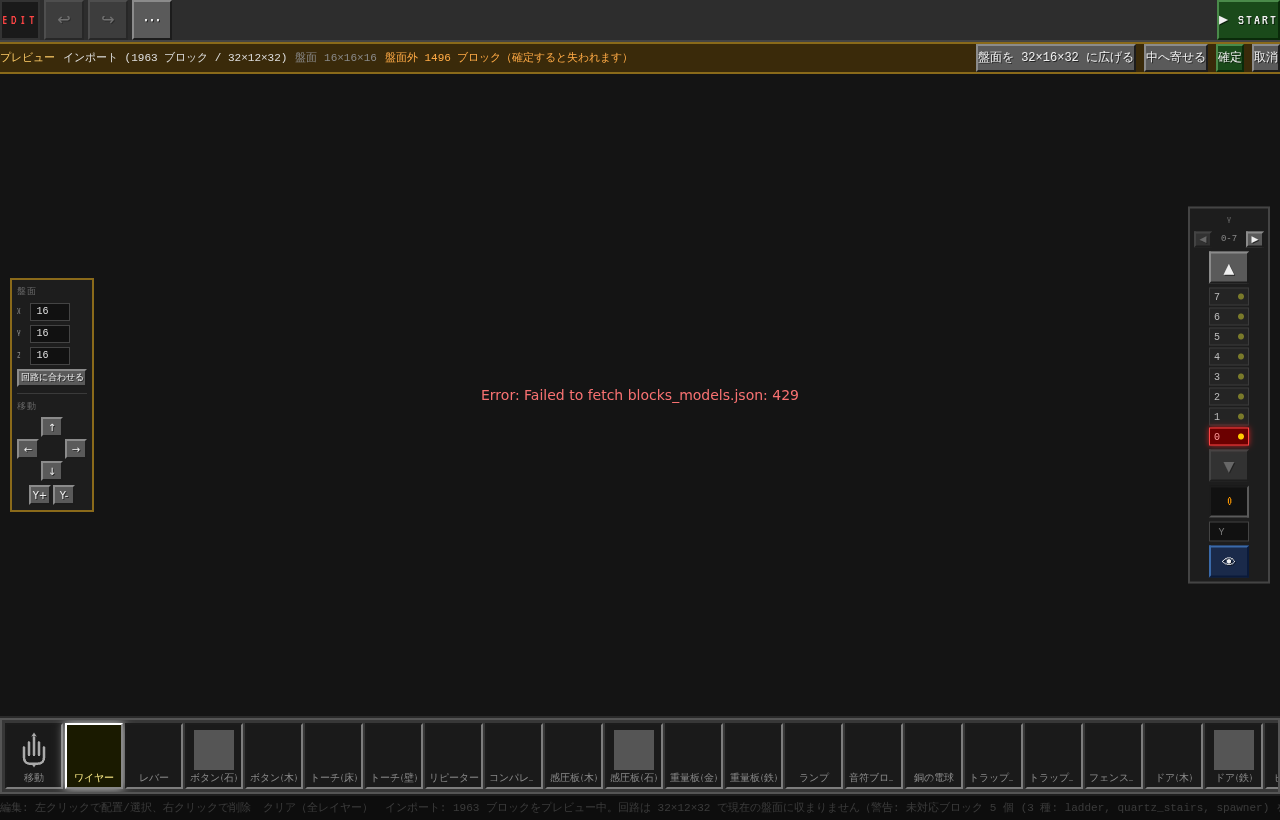
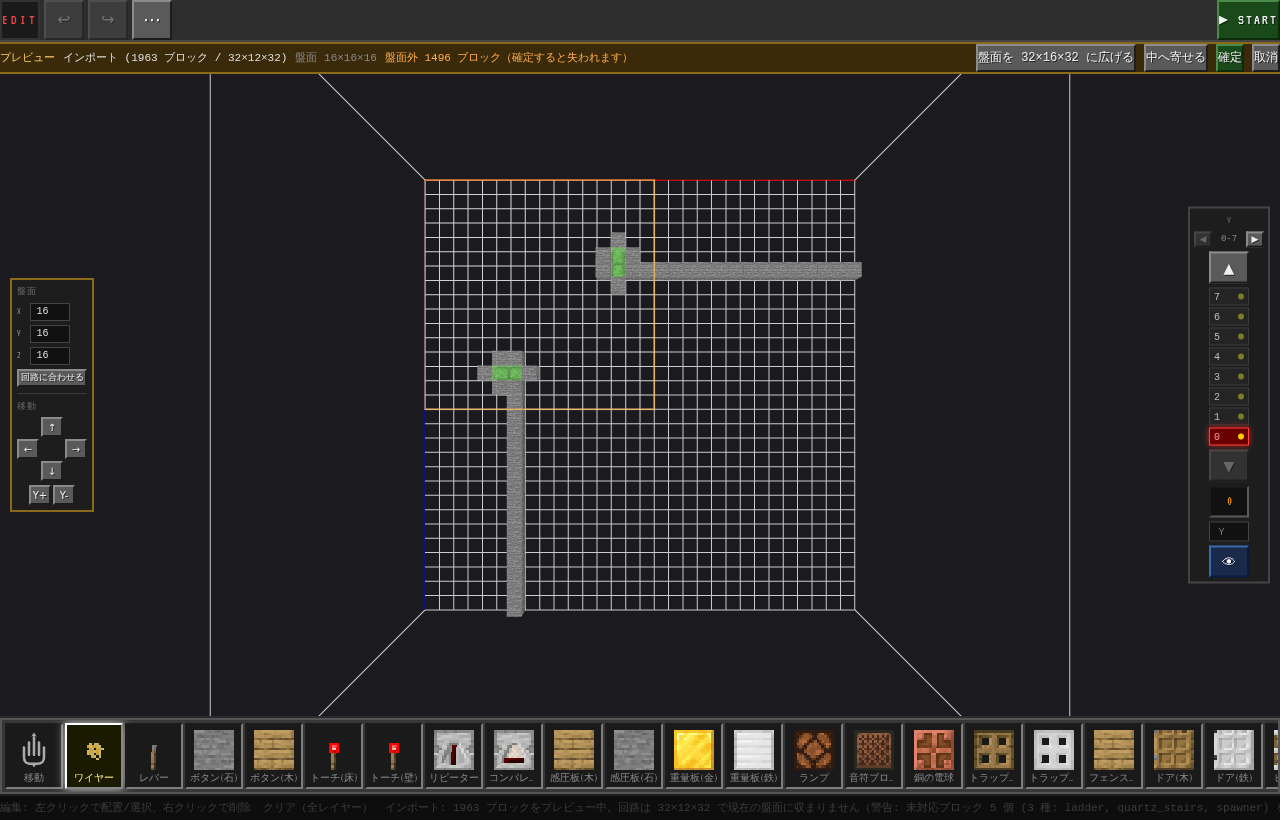
プレビュー中のグリッド枠がブロックとずれるのを修正 (#226)
スクリーンショットを撮って初めて気付いた。単体・e2e は全部緑だった。

viewer の座標は**構造ローカル** (bounds の min が原点)。プレビューで盤面外の
ブロックを描くために bounds を広げると原点が動くのに、グリッド枠は盤面基準で
計算していたため、枠とブロックが食い違っていた。

- 枠の描画を snapshot.bounds 基準に置き直す (構造ローカル原点 → 盤面の左上を出す)
- placementY も構造ローカルへ (プレビューで bounds が下へ伸びると絶対 Y ではずれる)
- unionBounds を editor パッケージの boundsWithBlocks へ移し、単体テストを付けた
- depth <= 0 のときは描画をスキップ (盤面を薄くしたときのゼロ除算回避)

Changed region(s): [[0.3125, 0.2134, 0.6875, 0.7622], [0.125, 0.8841, 1.0, 0.9451]]

diff --git a/app/src/EditorPage.tsx b/app/src/EditorPage.tsx
@@ -25,6 +25,7 @@ import {
   CircuitEditor, decideCellTap,
   DEFAULT_BOARD, BOARD_MIN, BOARD_MAX, normalizeBoardSize,
   translateBlocks, normalizeToOrigin, clipToBoard, countOutside, requiredBoardSize, offsetToFitBoard,
+  boundsWithBlocks,
   growthProposal,
 } from '@redstone/editor'
 import type { BoardSize } from '@redstone/editor'
@@ -105,26 +106,6 @@ interface PendingChange {
   moved?: { dx: number; dy: number; dz: number }
 }
 
-/**
- * 盤面と実際の占有範囲の和を bounds にする。
- *
- * プレビュー中は盤面の外にもブロックが居る。viewer は `px = x - minX` で
- * 構造内の位置を出すので、bounds を盤面に固定すると**外のブロックが描けない**。
- */
-function unionBounds(board: BoardSize, blocks: ReadonlyMap<string, BlockState>): WorldSnapshot['bounds'] {
-  let minX = 0, minY = 0, minZ = 0
-  let maxX = board.x - 1, maxY = board.y - 1, maxZ = board.z - 1
-  for (const key of blocks.keys()) {
-    const [x, y, z] = key.split(',').map(Number)
-    if (x < minX) minX = x
-    if (y < minY) minY = y
-    if (z < minZ) minZ = z
-    if (x > maxX) maxX = x
-    if (y > maxY) maxY = y
-    if (z > maxZ) maxZ = z
-  }
-  return { x: [minX, maxX], y: [minY, maxY], z: [minZ, maxZ] }
-}
 
 // ── 型 ────────────────────────────────────────────────────────────────────────
 
@@ -266,7 +247,7 @@ export function EditorPage({ onBack }: EditorPageProps) {
   // 盤面だけに固定すると viewer の座標変換 (px = x - minX) から外れて描けない
   const snapshot: WorldSnapshot = {
     blocks: visibleBlocks,
-    bounds: unionBounds(viewBoard, visibleBlocks),
+    bounds: boundsWithBlocks(viewBoard, visibleBlocks),
   }
 
   // レイヤーごとのブロック数（高さパネルのインジケーター用）
@@ -289,6 +270,14 @@ export function EditorPage({ onBack }: EditorPageProps) {
    */
   const viewBoardRef = useRef(viewBoard)
   viewBoardRef.current = viewBoard
+  /**
+   * viewer に渡している bounds。**枠の描画はこれを基準にする**。
+   * viewer の座標は構造ローカル (bounds の min が原点) なので、
+   * プレビューで bounds が盤面より広がると原点が動く。盤面基準のまま描くと
+   * グリッド枠とブロックがずれる (#226 実装中にスクリーンショットで気付いた)
+   */
+  const viewBoundsRef = useRef(snapshot.bounds)
+  viewBoundsRef.current = snapshot.bounds
 
   useEffect(() => {
     if (mode !== 'edit') return
@@ -308,10 +297,24 @@ export function EditorPage({ onBack }: EditorPageProps) {
       ctx.clearRect(0, 0, w, h)
       // depth = camDist + sy/2 - placementY  (sy=盤面の高さ, placementY=activeLayer)
       const vb = viewBoardRef.current
-      const depth = cam.distance + vb.y / 2 - activeLayer
+      const bounds = viewBoundsRef.current
+      const [minX, maxX] = bounds.x
+      const [minY, maxY] = bounds.y
+      const [minZ, maxZ] = bounds.z
+      // 構造のサイズと、構造ローカルでの編集レイヤー
+      const sx = maxX - minX + 1
+      const sy = maxY - minY + 1
+      const sz = maxZ - minZ + 1
+      const localY = activeLayer - minY
+      const depth = cam.distance + sy / 2 - localY
+      if (depth <= 0) { raf = requestAnimationFrame(draw); return }
       const scale = FOV_F * h / (2 * depth)
-      const gridLeft = w / 2 - (vb.x / 2 + cam.panX) * scale
-      const gridTop  = h / 2 - (vb.z / 2 + cam.panZ) * scale
+      // 構造ローカル原点 (bounds の min) の画面位置
+      const originLeft = w / 2 - (sx / 2 + cam.panX) * scale
+      const originTop  = h / 2 - (sz / 2 + cam.panZ) * scale
+      // 盤面の左上 (絶対 0,0) は min の分だけずれる
+      const gridLeft = originLeft + (0 - minX) * scale
+      const gridTop  = originTop  + (0 - minZ) * scale
       ctx.strokeStyle = 'rgba(255, 255, 255, 0.18)'
       ctx.lineWidth = 0.5
       ctx.beginPath()
@@ -1283,7 +1286,9 @@ export function EditorPage({ onBack }: EditorPageProps) {
         <IsometricView
           snapshot={snapshot}
           topDown={true}
-          placementY={activeLayer}
+          // viewer は構造ローカル座標で見る。プレビューで bounds が下へ伸びると
+          // 絶対 Y のままではレイヤーがずれる
+          placementY={activeLayer - snapshot.bounds.y[0]}
           onBlockClick={selectedType === 'move' ? undefined : handleBlockClick}
           cameraStateRef={cameraStateRef}
           panMode={selectedType === 'move'}

diff --git a/packages/editor/src/transform.test.ts b/packages/editor/src/transform.test.ts
@@ -1,9 +1,13 @@
 import { describe, it, expect } from 'vitest'
 import type { BlockState } from '@redstone/sim'
 import {
-  clipToBoard, countOutside, growthProposal, normalizeToOrigin, offsetToFitBoard, requiredBoardSize, translateBlocks,
+  translateBlocks, normalizeToOrigin, clipToBoard, countOutside,
+  requiredBoardSize, offsetToFitBoard, growthProposal,
 } from './transform.js'
-import { normalizeBoardSize, isInsideBoard, blocksExtent, DEFAULT_BOARD, BOARD_MAX } from './board.js'
+import {
+  normalizeBoardSize, isInsideBoard, blocksExtent, boundsWithBlocks,
+  DEFAULT_BOARD, BOARD_MAX,
+} from './board.js'
 
 const wire = (): BlockState => ({
   type: 'wire', power: 0,
@@ -240,5 +244,33 @@ describe('growthProposal — 「広げますか」を出すかどうか (判断 
   it('提案値は必ず盤面の上限内', () => {
     const p = growthProposal({ x: 16, y: 16, z: 16 }, { x: 999, y: 999, z: 999 })
     expect(p).toEqual({ x: BOARD_MAX, y: BOARD_MAX, z: BOARD_MAX })
+  })
+})
+
+describe('boundsWithBlocks — プレビューで盤面外も描くための bounds', () => {
+  const board = { x: 16, y: 16, z: 16 }
+
+  it('盤面に収まっていれば盤面ぴったり', () => {
+    expect(boundsWithBlocks(board, mk('0,0,0', '15,15,15')))
+      .toEqual({ x: [0, 15], y: [0, 15], z: [0, 15] })
+  })
+
+  it('空でも盤面ぴったり', () => {
+    expect(boundsWithBlocks(board, new Map())).toEqual({ x: [0, 15], y: [0, 15], z: [0, 15] })
+  })
+
+  it('**盤面の外へ出たブロックを含むまで広がる** (含まないと描けない)', () => {
+    expect(boundsWithBlocks(board, mk('-3,0,0', '20,0,0')))
+      .toEqual({ x: [-3, 20], y: [0, 15], z: [0, 15] })
+  })
+
+  it('下や奥へ出ても広がる', () => {
+    expect(boundsWithBlocks(board, mk('0,-2,0', '0,0,30')))
+      .toEqual({ x: [0, 15], y: [-2, 15], z: [0, 30] })
+  })
+
+  it('盤面より小さい回路でも盤面は必ず入る (枠を描くため)', () => {
+    expect(boundsWithBlocks({ x: 32, y: 8, z: 32 }, mk('1,1,1')))
+      .toEqual({ x: [0, 31], y: [0, 7], z: [0, 31] })
   })
 })

diff --git a/packages/editor/src/board.ts b/packages/editor/src/board.ts
@@ -77,3 +77,35 @@ export function blocksExtent(blocks: Map<string, BlockState>): {
     size: { x: maxX - minX + 1, y: maxY - minY + 1, z: maxZ - minZ + 1 },
   }
 }
+
+/** WorldSnapshot の bounds と同じ形 */
+export interface SnapshotBoundsLike {
+  x: [number, number]
+  y: [number, number]
+  z: [number, number]
+}
+
+/**
+ * 盤面と実際の占有範囲の和を bounds にする。
+ *
+ * プレビュー中は盤面の外にもブロックが居る。viewer の座標は**構造ローカル**
+ * (bounds の min が原点) なので、bounds を盤面に固定すると外のブロックが描けない。
+ * 逆に bounds を広げると viewer の原点が動くため、**グリッド枠の描画も
+ * この bounds を基準に置き直す必要がある** (盤面基準のままだとブロックとずれる)。
+ */
+export function boundsWithBlocks(
+  board: BoardSize, blocks: ReadonlyMap<string, BlockState>,
+): SnapshotBoundsLike {
+  let minX = 0, minY = 0, minZ = 0
+  let maxX = board.x - 1, maxY = board.y - 1, maxZ = board.z - 1
+  for (const key of blocks.keys()) {
+    const [x, y, z] = key.split(',').map(Number)
+    if (x < minX) minX = x
+    if (y < minY) minY = y
+    if (z < minZ) minZ = z
+    if (x > maxX) maxX = x
+    if (y > maxY) maxY = y
+    if (z > maxZ) maxZ = z
+  }
+  return { x: [minX, maxX], y: [minY, maxY], z: [minZ, maxZ] }
+}

diff --git a/packages/editor/src/index.ts b/packages/editor/src/index.ts
@@ -10,8 +10,10 @@ export type { SessionOptions, SettleOutcome } from './session.js'
 export { PLACEABLE_TYPES, isPlaceableType, PLACE_OPTION_RANGES, maxCount, normalizePlaceOptions } from './placeable.js'
 export { decideTap, decideCellTap, nextFacing } from './tap.js'
 export type { TapAction, TapOptions, TapPhase, SameTypePolicy, CellTapAction } from './tap.js'
-export { DEFAULT_BOARD, BOARD_MIN, BOARD_MAX, normalizeBoardSize, isInsideBoard, blocksExtent } from './board.js'
-export type { BoardSize } from './board.js'
+export {
+  DEFAULT_BOARD, BOARD_MIN, BOARD_MAX, normalizeBoardSize, isInsideBoard, blocksExtent, boundsWithBlocks,
+} from './board.js'
+export type { BoardSize, SnapshotBoundsLike } from './board.js'
 export {
   translateBlocks, normalizeToOrigin, clipToBoard, countOutside, requiredBoardSize, offsetToFitBoard,
   growthProposal,
